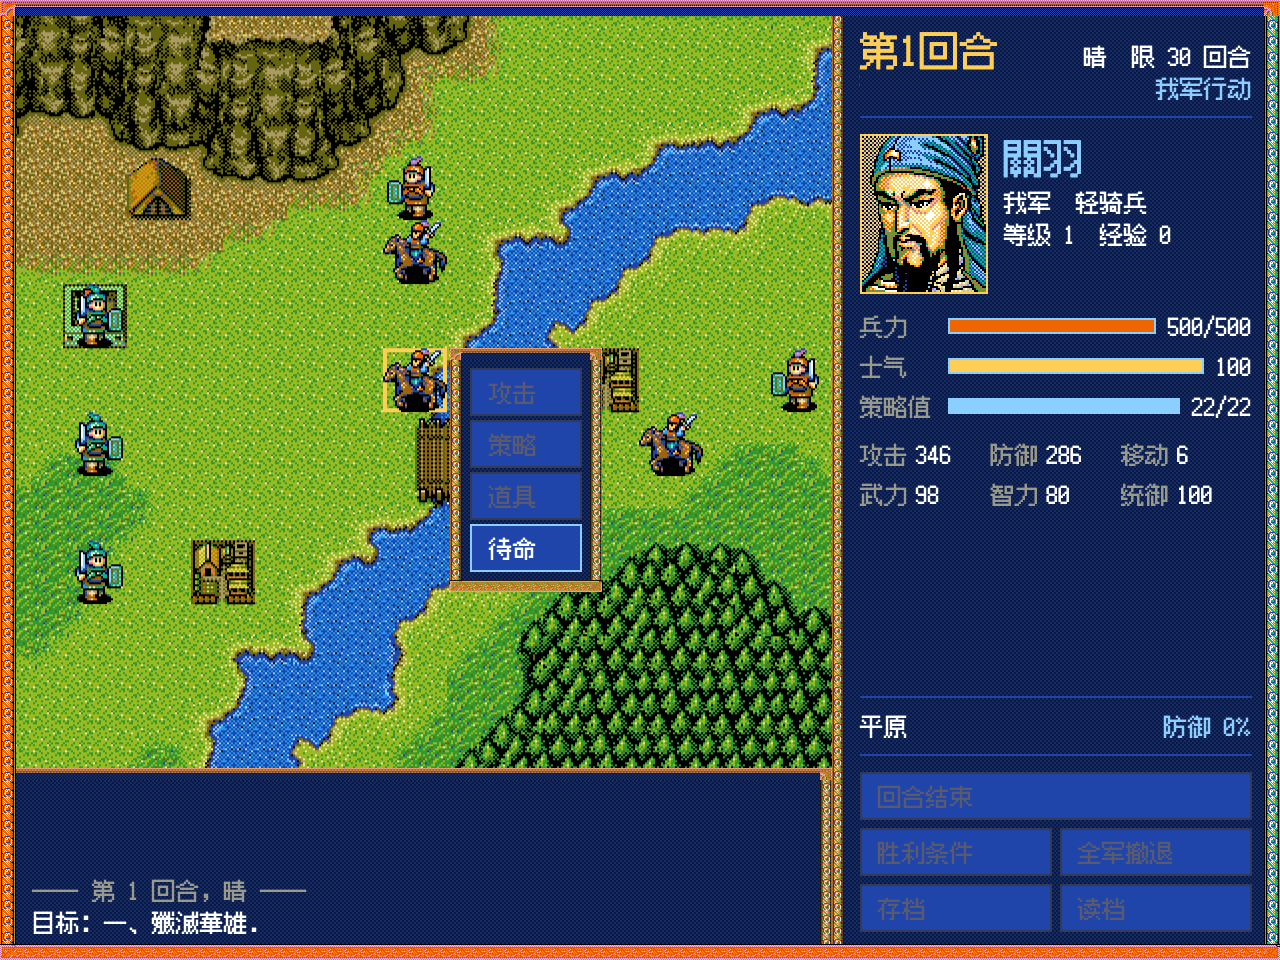
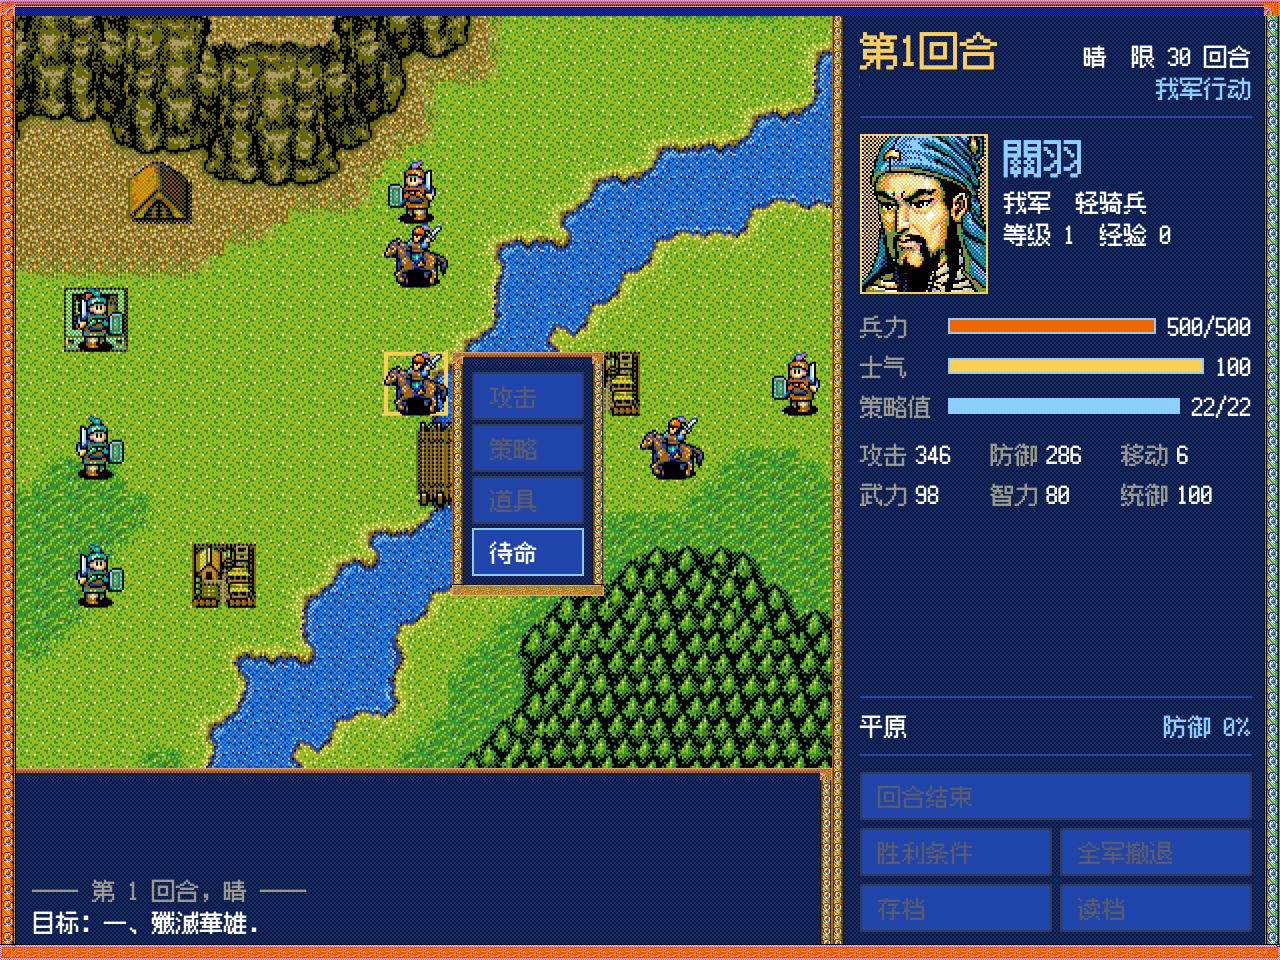
feat: 棋子逐帧行走——用上原版 HEXZCHR 一直没裁的那半帧
之前棋盘上的部队只有站立帧，靠位移「滑」过去；翻原版资源说明才发现
HEXZCHR 每个兵种图标是 32×64 上下两帧（站立 / 迈步），make_tokens 一直只
crop(0,0,32,32)，把行走帧扔掉了。逐像素对比上下两帧确认是腿部与手臂的
交替姿态，不是朝向或阴影。

素材（tools/make_full_assets.py）：tokens.png 从 39 列 × 2 行改成 39 列 × 4 行、
156 帧：行 0 站立、行 1 迈步、行 2/3 是对应的去饱和版（本回合已行动）。
旧的单关演示脚本加了注释，提醒重跑会覆盖成旧布局。

画面（src/scene.ts）：frameOf 增加 walking 行；play('move') 每走一格拆成前后
半格——前半格迈步帧并微微抬脚，后半格站立帧落地，走完整体回到站立帧；
sync/已行动仍只看站立行。朝左镜像逻辑不变。

验证：e2e 在移动时临时开启动画、每 12ms 采一次棋子帧号，断言图集 157 帧、
站立帧与站立帧+39 的行走帧都出现且行走帧反复出现；并用 Phaser 渲帧抓下
移动瞬间的 25-walking.png。108 项单测、13 项浏览器实操、生产冒烟全通过，
控制台 0 报错。文档（assets/framework/rules/README、original/README）同步，
去掉「棋子只有站立帧」这条已知差异。

diff --git a/src/scene.ts b/src/scene.ts
@@ -51,7 +51,7 @@ export class BattleScene extends Phaser.Scene {
   private map?: Phaser.GameObjects.Image;
   private mirror = true; // 棋子图本身朝右，朝左靠镜像；占位棋子上写着字，不镜像
   private perUnit = false; // 占位棋子按部队序号取帧；原版棋子图按兵种与阵营取帧
-  private static readonly TOKENS = 39; // tokens.png 每行 39 帧：兵种×2 + 阵营，第二行是已行动的样子
+  private static readonly TOKENS = 39; // tokens.png 每行 39 帧（兵种×2+阵营）；行 0/2 站立、行 1/3 行走
   private hp = new Map<number, number>(); // 画面上显示的兵力：事件一条条播，数字跟着一步步变
   private marks!: Phaser.GameObjects.Graphics;
   private cursor!: Phaser.GameObjects.Graphics;
@@ -91,7 +91,8 @@ export class BattleScene extends Phaser.Scene {
 
   /**
    * 换一场战斗（开局或读档）：按清单装载这一关的图，重摆全部棋子。
-   * 地图是一整张图，拉伸到 w×h 格；棋子图每格 CELL 见方，一支部队一帧（顺序同关卡数据），第二行是本回合已行动的样子。
+   * 地图是一整张图，拉伸到 w×h 格；棋子图每格 CELL 见方，按「兵种×2+阵营」取帧，
+   * 站立 / 行走 / 已行动各占一行。没有图时退化成每支部队一张占位图。
    */
   async setBattle(b: Battle) {
     this.b = b;
@@ -226,10 +227,12 @@ export class BattleScene extends Phaser.Scene {
     return this.tokens.get(slot)!;
   }
 
-  /** 棋子帧号：原版棋子图按「兵种×2+阵营」排，第二行是已行动的去饱和版。 */
-  private frameOf(u: Unit, acted: boolean) {
+  /** 棋子帧号：原版 HEXZCHR 每个兵种是站立 / 行走两帧，图集按行铺开：
+   * 0 站立、1 行走、2 已行动站立、3 已行动行走。列 = 兵种×2+阵营。 */
+  private frameOf(u: Unit, acted: boolean, walking = false) {
     if (this.perUnit) return this.b.units.findIndex((v) => v.slot === u.slot) + (acted ? this.b.units.length : 0);
-    return (acted ? BattleScene.TOKENS : 0) + u.cls * 2 + (u.slot >= 15 ? 1 : 0);
+    const row = (acted ? 2 : 0) + (walking ? 1 : 0);
+    return row * BattleScene.TOKENS + u.cls * 2 + (u.slot >= 15 ? 1 : 0);
   }
 
   /** 把棋子对齐到当前状态：位置、是否在场；我军已行动的换成灰色那一帧，混乱的歪倒并发紫。 */
@@ -362,7 +365,16 @@ export class BattleScene extends Phaser.Scene {
         const dx = ev.path.length > 1 ? ev.path[1][0] - ev.path[0][0] : 0;
         s.setFlipX(this.mirror && (dx < 0 ? true : dx > 0 ? false : facesLeft(b, u)));
         await this.tween({ targets: s, scale: 1.1, duration: 70 });
-        for (const [x, y] of ev.path.slice(1)) await this.tween({ targets: s, x: mid(x), y: mid(y), duration: 105, ease: 'Linear' });
+        // 原版棋盘上走一格是两帧交替：前半格迈步（略微抬起），后半格落脚回站立帧
+        for (const [x, y] of ev.path.slice(1)) {
+          const [tx, ty] = [mid(x), mid(y)];
+          const [x0, y0] = [s.x, s.y];
+          s.setFrame(this.frameOf(u, false, true));
+          await this.tween({ targets: s, x: (x0 + tx) / 2, y: (y0 + ty) / 2 - 2 * RES, duration: 52, ease: 'Linear' });
+          s.setFrame(this.frameOf(u, false, false));
+          await this.tween({ targets: s, x: tx, y: ty, duration: 53, ease: 'Linear' });
+        }
+        s.setFrame(this.frameOf(u, false, false));
         await this.tween({ targets: s, scale: 1, duration: 90, ease: 'Bounce.easeOut' });
         s.setFlipX(this.mirror && facesLeft(b, u)); // 站定后转回面向敌方（棋子图本身朝右，朝左靠镜像）
         s.setDepth(2 + ev.path[ev.path.length - 1][1] / 100);

diff --git a/tools/make_full_assets.py b/tools/make_full_assets.py
@@ -8,7 +8,8 @@
 产出：
   maps/           58 张战场图（3 倍整数放大）+ 15 张地形被改变时的补丁图
   faces/          240 张 64×80 武将头像（FACEDAT 原样）
-  tokens.png      19 兵种 × 2 阵营 + 刘备旗步兵，各 96×96；第二行是已行动的去饱和版
+  tokens.png      39 列 × 4 行，各 96×96：站立 / 行走 / 已行动站立 / 已行动行走
+                  （原版 HEXZCHR 每个兵种图标是 32×64 上下两帧，正好是走路的交替帧）
   pictures/       31 张事件插画
   duel/           单挑动画图（15 帧 96×96）与 10 张单挑地形背景
   cutin/          战斗特写：每兵种 60 帧待机（呼吸）+ 60 帧出手 + 30 帧受击，60fps 播放
@@ -138,19 +139,32 @@ def make_faces(ex: Path) -> int:
 
 # ---------------------------------------------------------------- 棋子 ----
 def make_tokens(ex: Path) -> None:
-    """39 帧：cls×2+阵营（0–37），第 38 帧是刘备的旗步兵；第二行是已行动的去饱和版。"""
+    """39 列 × 4 行：cls×2+阵营（0–37），第 38 帧是刘备的旗步兵。
+
+    原版 HEXZCHR 每个图标是 32×64，上下各一帧：上半是站立、下半是迈步，
+    棋盘上移动时两帧交替显示。以前只裁了上半帧，部队只能靠位移「滑」过去。
+    这里把两帧都保留，并各配一份「本回合已行动」的去饱和版：
+        行 0 站立　　行 1 行走　　行 2 站立(灰)　　行 3 行走(灰)
+    """
     S = 32 * RES
-    frames = []
-    for i in range(39):
+    cols = 39
+    idle, walk = [], []
+    for i in range(cols):
         src = rgba(ex / f"gfx/original/hexzchr/{i:03d}.png")
         assert src.size == (32, 64), f"HEXZCHR[{i}] 尺寸不对：{src.size}"
-        frames.append(src.crop((0, 0, 32, 32)).resize((S, S), NEAREST))
-    sheet = Image.new("RGBA", (S * len(frames), S * 2), (0, 0, 0, 0))
-    for i, im in enumerate(frames):
-        sheet.paste(im, (i * S, 0))
-        grey = im.convert("L").point(lambda v: int(28 + v * 0.45))
-        g = Image.merge("RGBA", (grey, grey, grey, im.getchannel("A")))
-        sheet.paste(g, (i * S, S))
+        idle.append(src.crop((0, 0, 32, 32)).resize((S, S), NEAREST))
+        walk.append(src.crop((0, 32, 32, 64)).resize((S, S), NEAREST))
+
+    def grey(im: Image.Image) -> Image.Image:
+        g = im.convert("L").point(lambda v: int(28 + v * 0.45))
+        return Image.merge("RGBA", (g, g, g, im.getchannel("A")))
+
+    sheet = Image.new("RGBA", (S * cols, S * 4), (0, 0, 0, 0))
+    for i, (a, w) in enumerate(zip(idle, walk)):
+        sheet.paste(a, (i * S, 0))
+        sheet.paste(w, (i * S, S))
+        sheet.paste(grey(a), (i * S, S * 2))
+        sheet.paste(grey(w), (i * S, S * 3))
     sheet.save(OUT / "tokens.png")
 
 

diff --git a/tools/make_assets.py b/tools/make_assets.py
@@ -163,6 +163,7 @@ def make_map(carto: Path, font: Path):
     return data
 
 
+# 占位棋子（无原版素材时用的演示图）；会覆盖 tokens.png，正式素材请用 make_full_assets.py。
 def make_tokens(data, reloaded: Path, font: Path):
     """棋子：一支部队一帧（顺序同 sishui.json 的 units）。有画像的武将是圆形头像加兵种小章，杂兵是一枚兵种字。
     第二行是同一批棋子褪成灰色的样子，给本回合已行动的部队用。"""

diff --git a/tools/make_original_assets.py b/tools/make_original_assets.py
@@ -78,6 +78,8 @@ def token_index(u: dict) -> int:
 
 
 def make_tokens(ex: Path, units: list[dict]) -> None:
+    # 早期单关演示用的旧版图集（2 行）。整部游戏的 tokens.png 由 make_full_assets.py
+    # 生成 39 列 × 4 行（含 HEXZCHR 的站立 / 迈步两帧），重跑本脚本会覆盖成旧布局。
     sheet = Image.new("RGBA", (FRAME * len(units), FRAME * 2), (0, 0, 0, 0))
     for i, u in enumerate(units):
         n = token_index(u)

diff --git a/docs/rules.md b/docs/rules.md
@@ -110,7 +110,7 @@
 6. 混乱只记「混乱 / 正常」，没有按数据里的 `turns` 单独计时；策略演出是通用特效，没有逐条专属动画。
 7. 系统菜单只有回合结束、胜利条件、全军撤退、存档、读档。
 8. 友军按原版名单固定出场，没有战前对话的选择。营地的商店、编成、道具、转职与存档已做（见 `docs/framework.md` §4–5），布阵也能自己摆（§9），但只能摆在关卡数据给的出兵位上。
-9. 素材**逐像素取自原版**（逐项来源见 `docs/assets.md`）：战场地图、兵种棋子、武将头像、事件插画、战斗特写帧动画（每兵种 150 帧）、单挑图集、10 首 BGM 与 16 色调色板都是原版内容，台词与剧情也是原版剧本转出的。仍与原版不同的是演出方式：棋盘上的部队只用站立帧、靠位移表现移动（原版有逐帧行走动画）；攻击是原版战斗特写加粒子特效；单挑按 `acts` 表驱动固定招式，不是原版逐帧脚本；音乐整曲循环，没有按战场形势切换。
+9. 素材**逐像素取自原版**（逐项来源见 `docs/assets.md`）：战场地图、兵种棋子、武将头像、事件插画、战斗特写帧动画（每兵种 150 帧）、单挑图集、10 首 BGM 与 16 色调色板都是原版内容，台词与剧情也是原版剧本转出的。棋盘行走已用上原版 `HEXZCHR` 的站立 / 迈步两帧（每格交替一次），仅交替节奏未与原版逐帧比对；仍与原版不同的是：攻击是原版战斗特写加粒子特效；单挑按 `acts` 表驱动固定招式，不是原版逐帧脚本；音乐整曲循环，没有按战场形势切换。
 10. 随机数算法相同，种子来源不同，不可能与原版逐次结果相同。
 
 ## 5. 实际运行过的检查

diff --git a/docs/assets.md b/docs/assets.md
@@ -35,7 +35,7 @@ python3 tools/make_full_assets.py <EXTRACT> <PACK>
 |---|---|---|---|
 | `maps/*.png` | 58 张战场地图（整部游戏） | `HEXZMAP.R3` 的各条记录：图块索引 + 地形码；图块来自 `HEXZCHP.R3` | 原版 896×512（每格 32px），3 倍放大成 2688×1536 |
 | `maps/<map>_p<i>.png` | 15 张地形补丁（火、水攻、落石、桥断等） | `HEXZMAP.R3` 同一条记录里的地形变体 | 同上 |
-| `tokens.png` | 39 帧棋子：19 兵种 × 2 阵营 + 刘备旗步兵，第二行是「本回合已行动」的去饱和版 | `HEXZCHR.R3`：47 个 32×32 双帧兵种图标；按原版选图规则偶数（橙）= 我军/友军、奇数（绿）= 敌军 | 96×96 帧，39 列 × 2 行 |
+| `tokens.png` | 39 列棋子（19 兵种 × 2 阵营 + 刘备旗步兵）× 4 行：站立、迈步、已行动站立、已行动迈步；后两行去饱和 | `HEXZCHR.R3`：47 个 32×64 双帧兵种图标（**上半站立、下半迈步**，原版走路时两帧交替）；按原版选图规则偶数（橙）= 我军/友军、奇数（绿）= 敌军 | 96×96 帧，39 列 × 4 行（156 帧） |
 | `faces/*.png` | 240 张武将头像 | `FACEDAT.R3` 的 240 张 TF-DCE 压缩头像，编号由 `BAKDATA.R3` 武将记录 +14 字节给出 | 64×80，原版原尺寸 |
 | `portraits/_unknown.png` | 杂兵（无武将记录） | `HEXZCHR.R3` 短兵图标放大 2 倍放进 64×80 框（原版状态窗给杂兵显示的也是兵种图） | 64×80 |
 | `pictures/*.png` | 31 张事件插画 | `PACKGRP.R3` 第 3–33 项 | 224×144，界面按 2 倍摆进舞台 |

diff --git a/original/README.md b/original/README.md
@@ -43,6 +43,7 @@
   平面 p 是颜色位 p，颜色 0 透明。头像/插画用 `TFDED.COM` 的 **TF-DCE** 压缩。
 - 调色板不在数据文件里，而在 `MAIN.EXE` 偏移 `0x37CDA`：9 组 × 16 色，4bit B,R,G 按 VGA DAC 扩成 6bit。
   战场/兵种用 slot 1，头像/界面用 slot 0。
+- **行走帧**：`HEXZCHR` 每个图标 32×64 是上下两帧，上半站立、下半迈步；网页版用这两帧在棋盘上逐格交替。
 - **朝向**：`HEXZCHR` 只存了一个方向（骑兵马头一律朝右），游戏运行时靠左右镜像生成反方向。
   网页版在 `src/scene.ts` 里按阵营和移动方向做 `setFlipX`，所以原始 PNG 不要预先翻转。
 - **战斗帧分组**：`hexbchr` 按兵种连续排列，顺序同 `src/data/tables.json` 的 `classNames`
